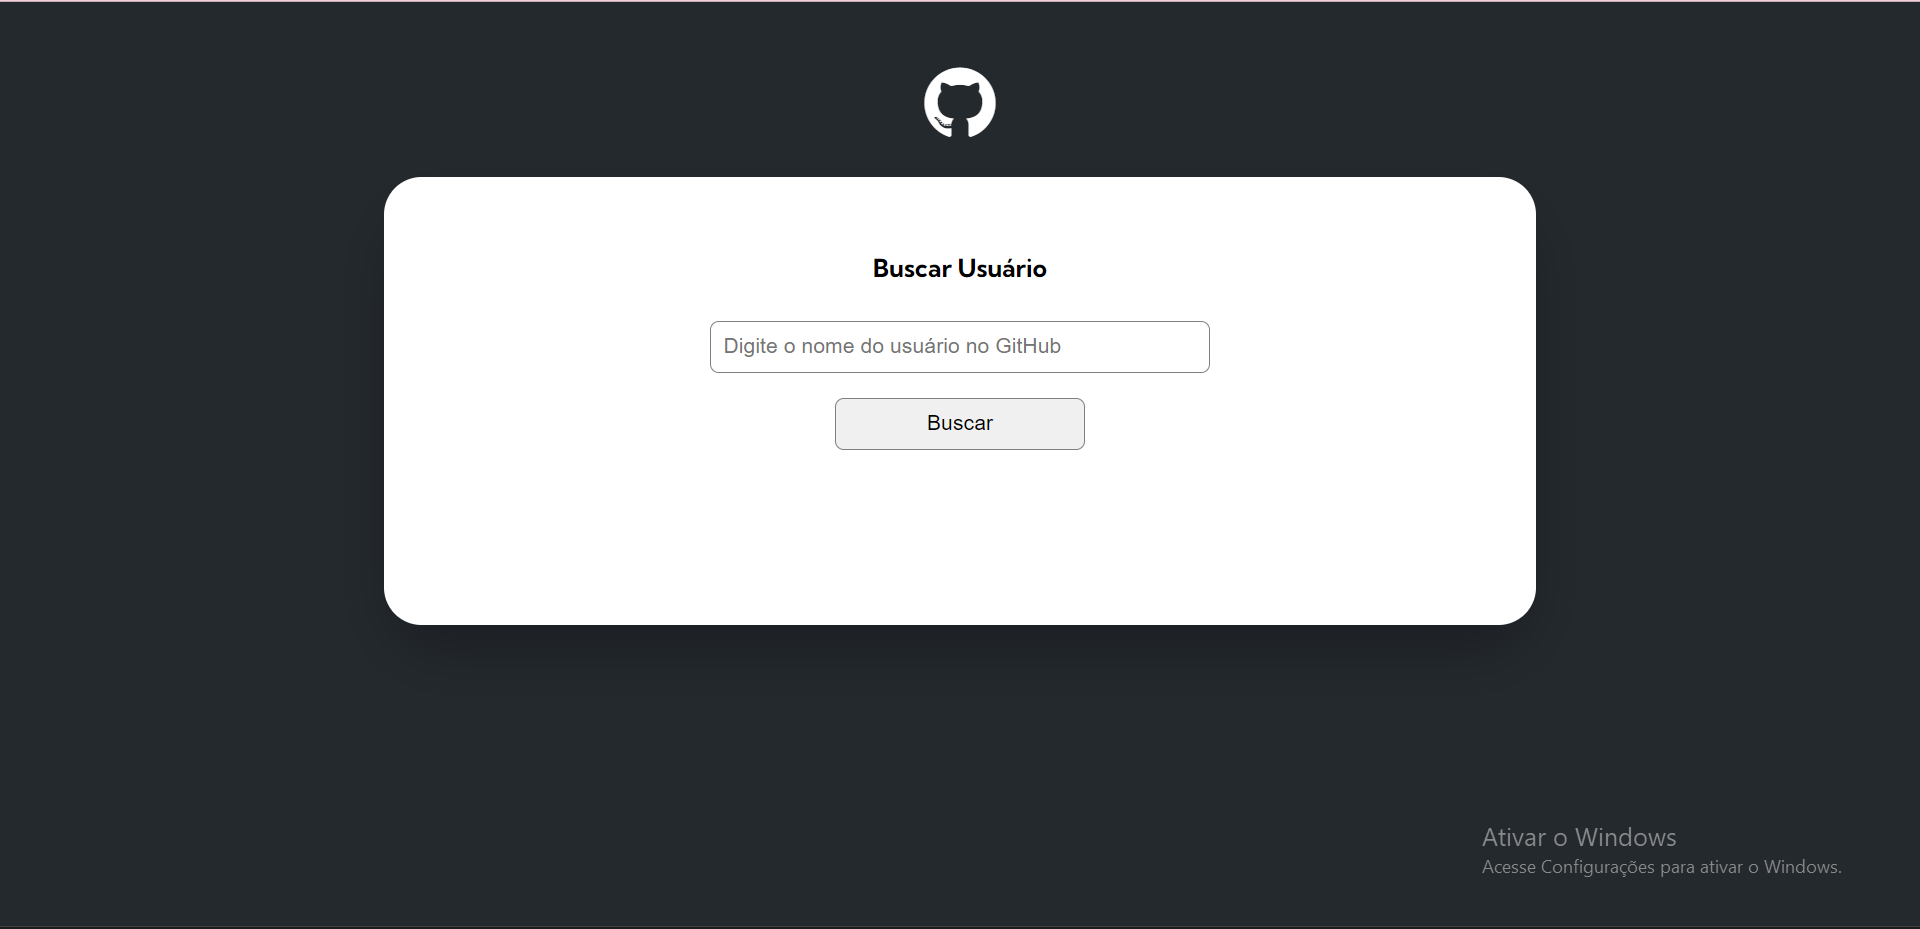
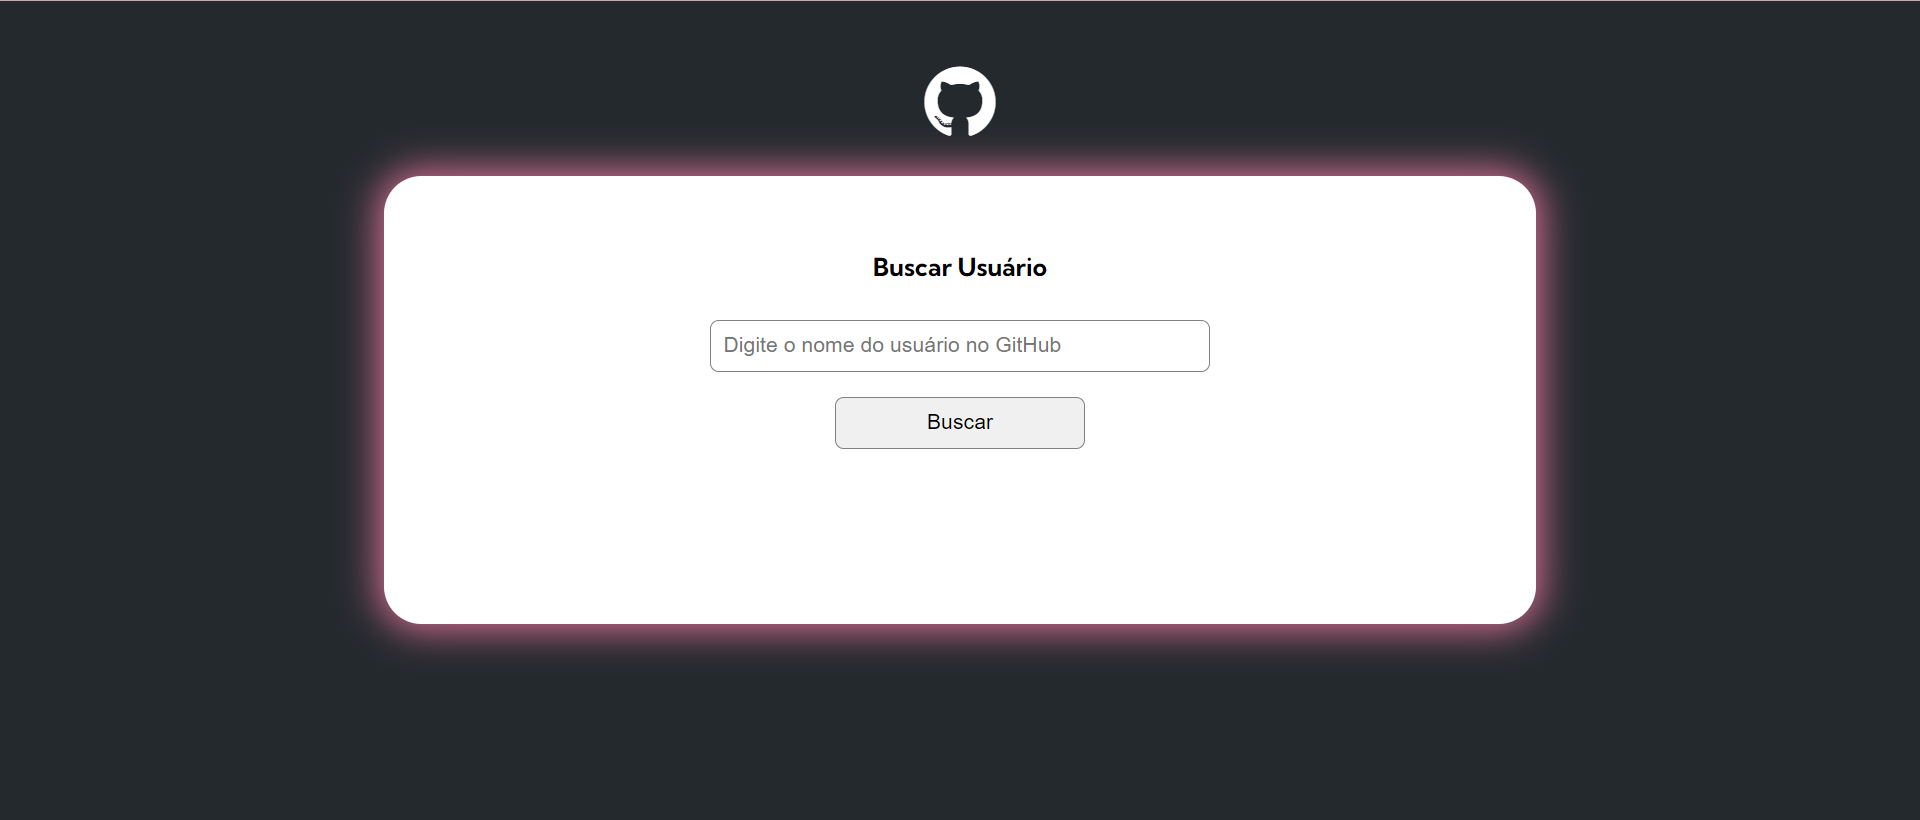
código refatorado e modificação do README.md

Changed region(s): [[0.1875, 0.061, 0.8125, 0.7927], [0.375, 0.2744, 0.5625, 0.5183], [0.7812, 0.8841, 0.9688, 0.9451]]

diff --git a/src/css/style.css b/src/css/style.css
@@ -11,7 +11,7 @@ main{
     display: flex;  
     justify-content: center;
     flex-direction: column;
-    padding: 50px 0 0;      
+    padding: 50px 0 0;
 }
 
 .devicon-github-original{
@@ -27,7 +27,7 @@ section{
 .container{
     width: 60%;
     max-width: 960px;
-    box-shadow: rgba(0, 0, 0, 0.3) 0px 25px 50px -12px;
+    box-shadow: #d87093 0px 0px 30px 5px;
     background-color: #fff;
     display: flex;
     flex-direction: column;
@@ -162,18 +162,21 @@ section{
   
 /* REPOSITORIES */
   
-.container .profile-data .repositories h2{
+.container .profile-data .repositories h2,
+.container .profile-data .events h2{
     margin-bottom: 30px;
     text-align: center;
 }
   
-.container .profile-data .repositories ul{
+.container .profile-data .repositories ul,
+.container .profile-data .events ul{
     display: flex;
     flex-wrap: wrap;
     justify-content: center;
 }
   
-.container .profile-data .repositories ul li a{
+.container .profile-data .repositories ul li a,
+.container .profile-data .events ul li a{
     padding: 20px;
     border: 1px solid grey;  
     margin: 20px;
@@ -182,7 +185,8 @@ section{
     transition: 0.3s ease-in-out;
 }
   
-.container .profile-data .repositories ul li a:hover{
+.container .profile-data .repositories ul li a:hover,
+.container .profile-data .events ul li a:hover{
     background-color:#d87093;
     border: 1px solid #fff;
     color: #fff;
@@ -207,29 +211,6 @@ section{
 
 .container .profile-data .events h2{
     margin-top: 30px;
-    margin-bottom: 30px;
-    text-align: center;
-}
-  
-.container .profile-data .events ul{
-    display: flex;
-    flex-wrap: wrap;
-    justify-content: center;
-}
-
-.container .profile-data .events ul li a{
-    padding: 20px;
-    border: 1px solid grey;  
-    margin: 20px;
-    display: block;
-    border-radius: 7px;
-    transition: 0.3s ease-in-out;
-}
-  
-.container .profile-data .events ul li a:hover{
-    background-color:#d87093;
-    border: 1px solid #fff;
-    color: #fff;
 }
 
 .container .profile-data .events ul li a .repo-name{

diff --git a/src/scripts/objects/screen.js b/src/scripts/objects/screen.js
@@ -49,7 +49,7 @@ const screen = {
 
         events.forEach( (event) => { 
             if(event.payload.commits){
-                eventsItens += `<li><a href="${event.html_url}" target="_blank"><span class="repo-name">${event.repo.name}</span> -> ${event.payload.commits[0].message}</a></li>`
+                eventsItens += `<li><a href="#"><span class="repo-name">${event.repo.name}</span> -> ${event.payload.commits[0].message}</a></li>`
             }
         })
 

diff --git a/README.md b/README.md
@@ -27,4 +27,4 @@ Projeto realizado em uma quest no curso Dev Quester
 
 ### Status - Desktop
 
-![](./design/status-desktop.png)
+![](./design/api-github-desktop-status.gif)
